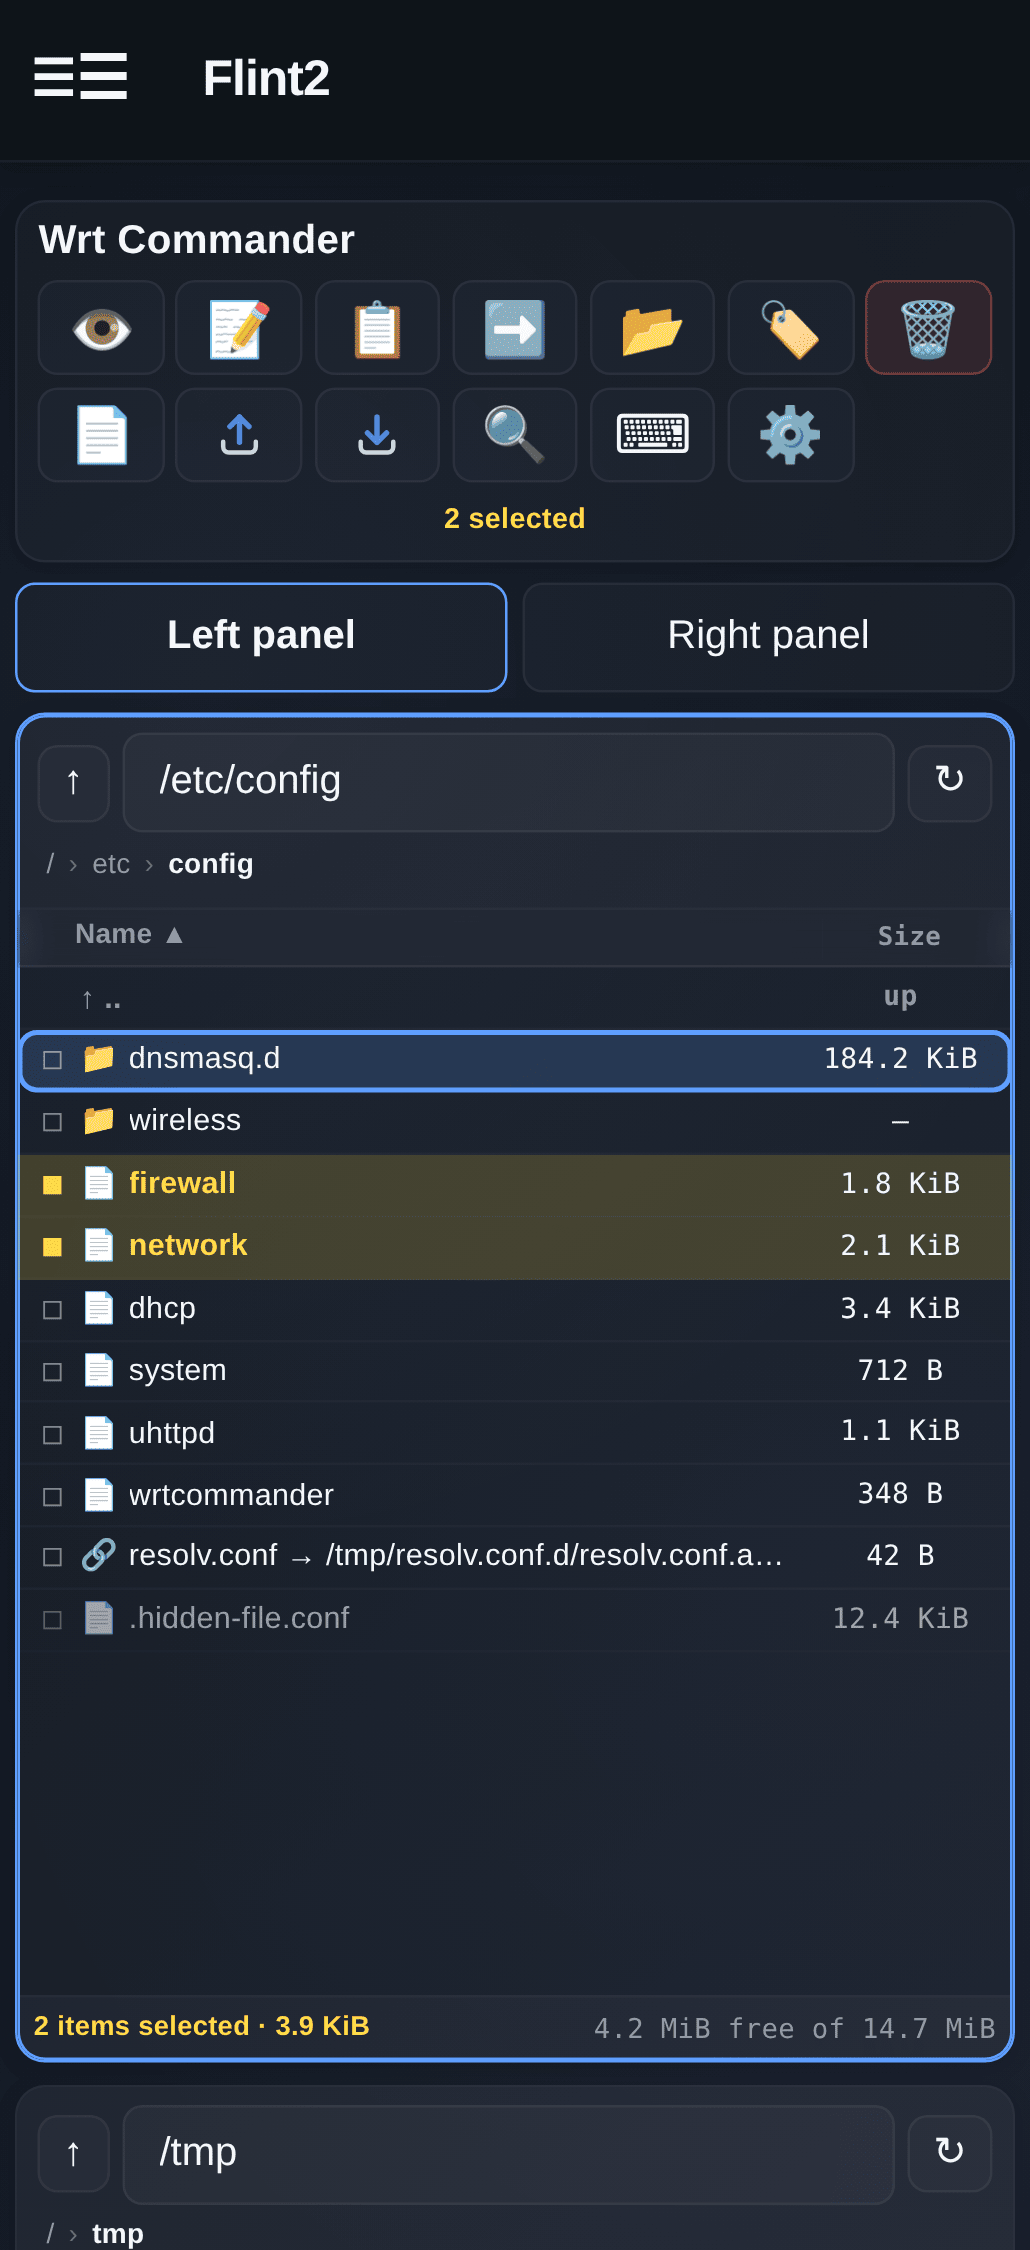
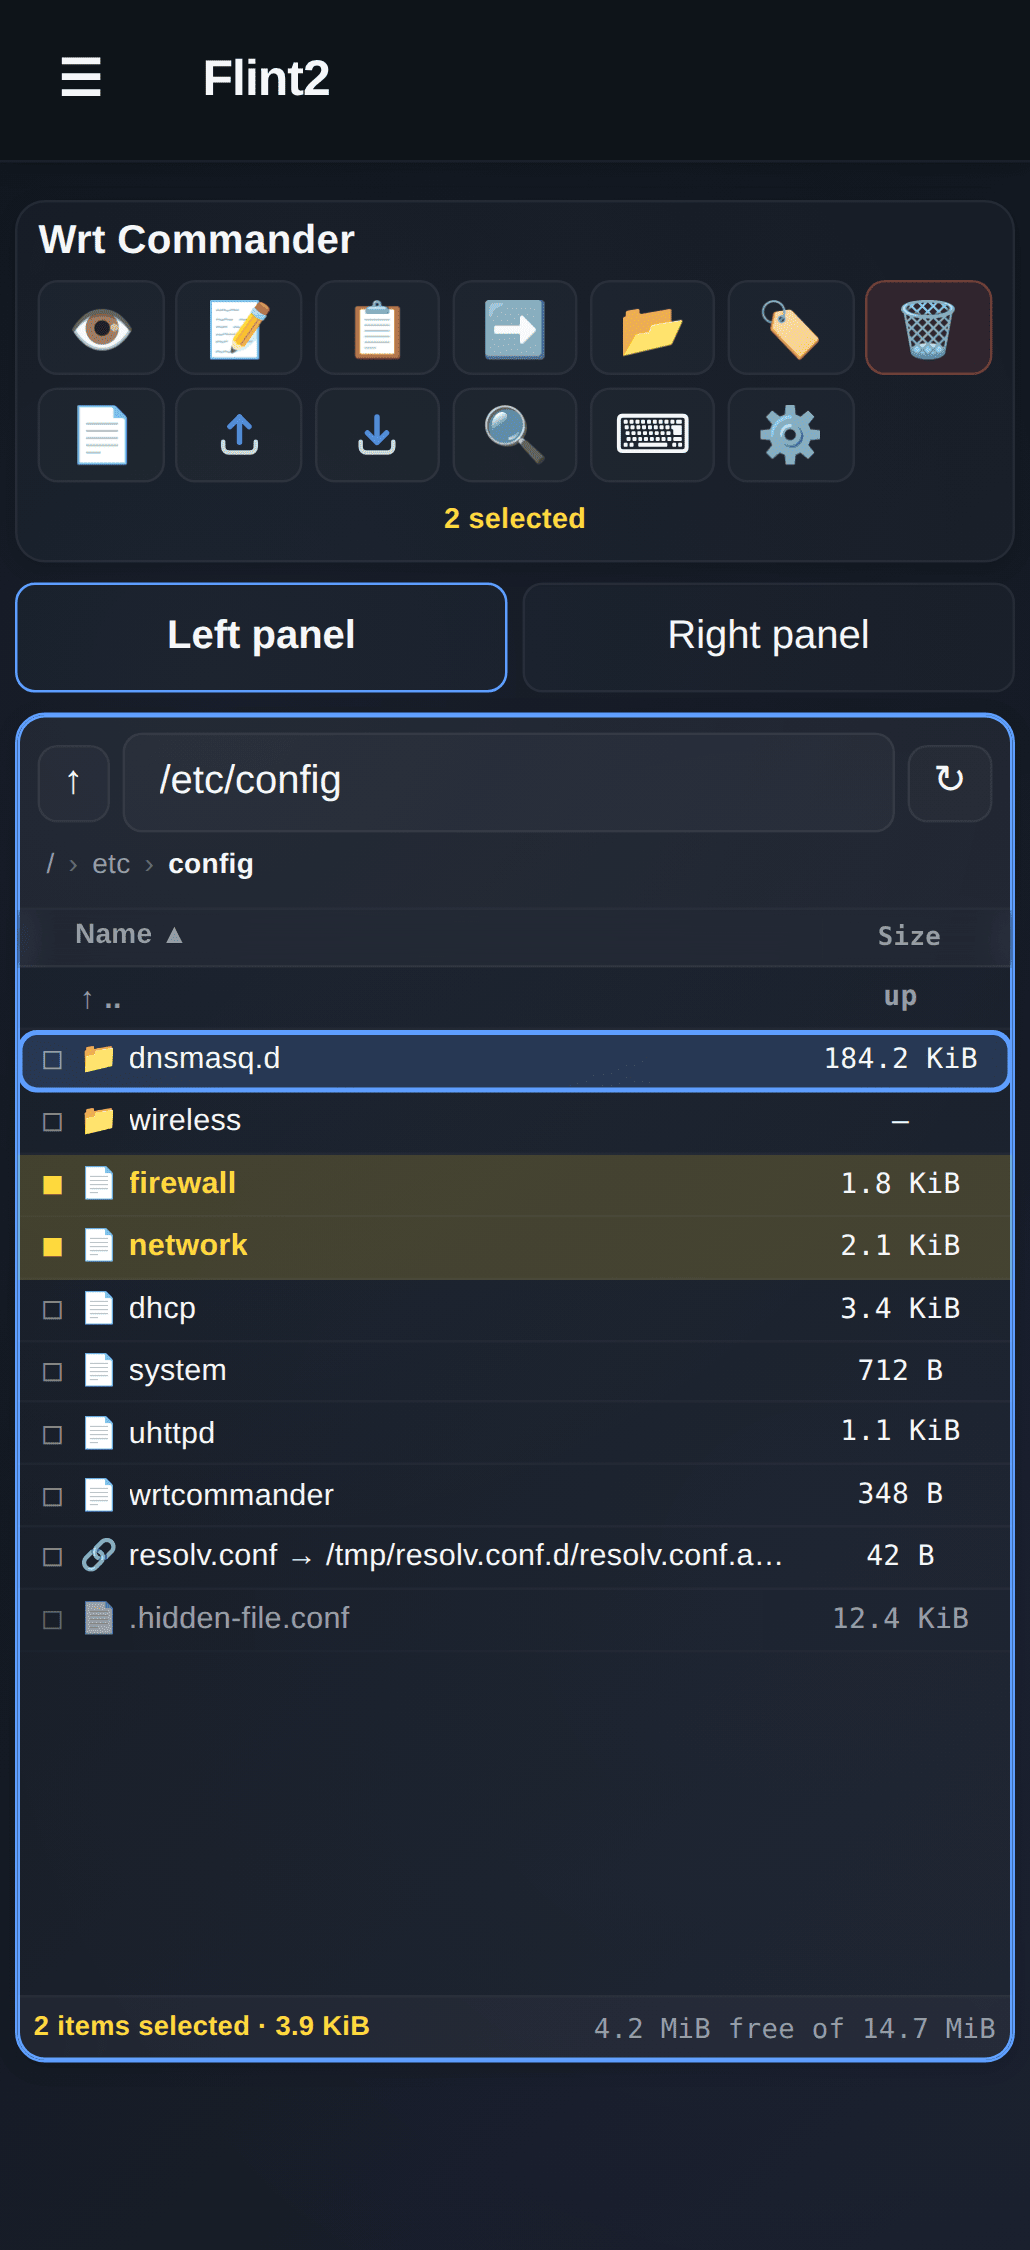
Drop LuCI's Save/Apply footer, and fix the phone screenshots
Both came out of the reference screenshot from the router.

The page was showing Save & Apply / Save buttons at the bottom. LuCI's
base view appends that footer unless all three handlers are nulled
(luci.js: `if (this.handleSaveApply || this.handleSave ||
this.handleReset)`), and only handleReset was. A file manager has no form
and nothing to save, so the buttons were meaningless - but worse than
that, the inherited handleSaveApply() calls ui.changes.apply(), so
pressing it from this page would have committed whatever UCI changes the
session had staged somewhere else entirely. All three are null now, and
the three keys were checked to be top-level properties of the
view.extend() object so they really do override the base class.

The phone screenshots had a bug of their own: the generator put
fx-pane-shown on both panels, so the /tmp panel rendered underneath the
active one. Below 900px the app shows exactly one. Only the panel the
switcher marks active carries the class now, and the burger is drawn as
three lines to match the theme rather than the U+2630 glyph.

Claude-Session: https://claude.ai/code/session_01Y8Ki5u5TyZc9bW5Xj3occS

diff --git a/runtime/www/luci-static/resources/view/wrtcommander.js b/runtime/www/luci-static/resources/view/wrtcommander.js
@@ -471,7 +471,19 @@ return view.extend({
 			Math.round(document.documentElement.clientHeight - top - 16)) + 'px';
 	},
 
-	/* view.extend() calls this when navigating away */
+	/* LuCI's base view renders a Save / Save & Apply / Reset footer if any
+	   one of these three is non-null (luci.js: `if (this.handleSaveApply ||
+	   this.handleSave || this.handleReset)`). Nulling only handleReset
+	   still left the other two, so a file manager - which has no form and
+	   nothing to save - was showing those buttons at the bottom of the
+	   page.
+
+	   Not merely untidy: the inherited handleSaveApply() runs
+	   ui.changes.apply(), so pressing it here would commit whatever
+	   unrelated staged UCI changes the session happened to be carrying,
+	   from a page that never touches UCI. All three are null. */
+	handleSaveApply: null,
+	handleSave: null,
 	handleReset: null,
 
 	injectCss: function () {

diff --git a/README.md b/README.md
@@ -718,6 +718,15 @@ margin разом, замеряет снова и возвращает все ч
 причине: ниже контейнер должен просто использовать экран, и наш лимит
 там был бы ещё одной вещью, с которой замеру пришлось бы спорить.
 
+LuCI сама дорисовывает страницам подвал с кнопками «Сохранить и
+применить» / «Сохранить» / «Сбросить», если у представления не обнулены
+все три обработчика (`luci.js`: `if (this.handleSaveApply ||
+this.handleSave || this.handleReset)`). Здесь обнулены все три. Дело не в
+опрятности: унаследованный `handleSaveApply()` вызывает
+`ui.changes.apply()`, поэтому на странице без единой формы эта кнопка
+применила бы те изменения UCI, которые сессия к тому моменту накопила
+где-то ещё.
+
 Соглашения commander'ов, которые стоит знать:
 
 - **Курсор и выделение — разные вещи.** Курсор — это обведённая строка,
@@ -1549,6 +1558,13 @@ The `.fx-wide` max-width rule is scoped to `min-width: 901px` for the
 same reason: below that the container should simply use the screen, and a
 cap of ours in play there would be one more thing for the measurement to
 fight.
+
+LuCI's own base view appends a Save & Apply / Save / Reset footer to a
+page unless all three handlers are nulled (`luci.js`: `if
+(this.handleSaveApply || this.handleSave || this.handleReset)`). All three
+are null here. That is not tidiness: the inherited `handleSaveApply()`
+calls `ui.changes.apply()`, so on a page with no form at all that button
+would commit whatever UCI changes the session had staged elsewhere.
 
 Commander conventions worth knowing:
 
